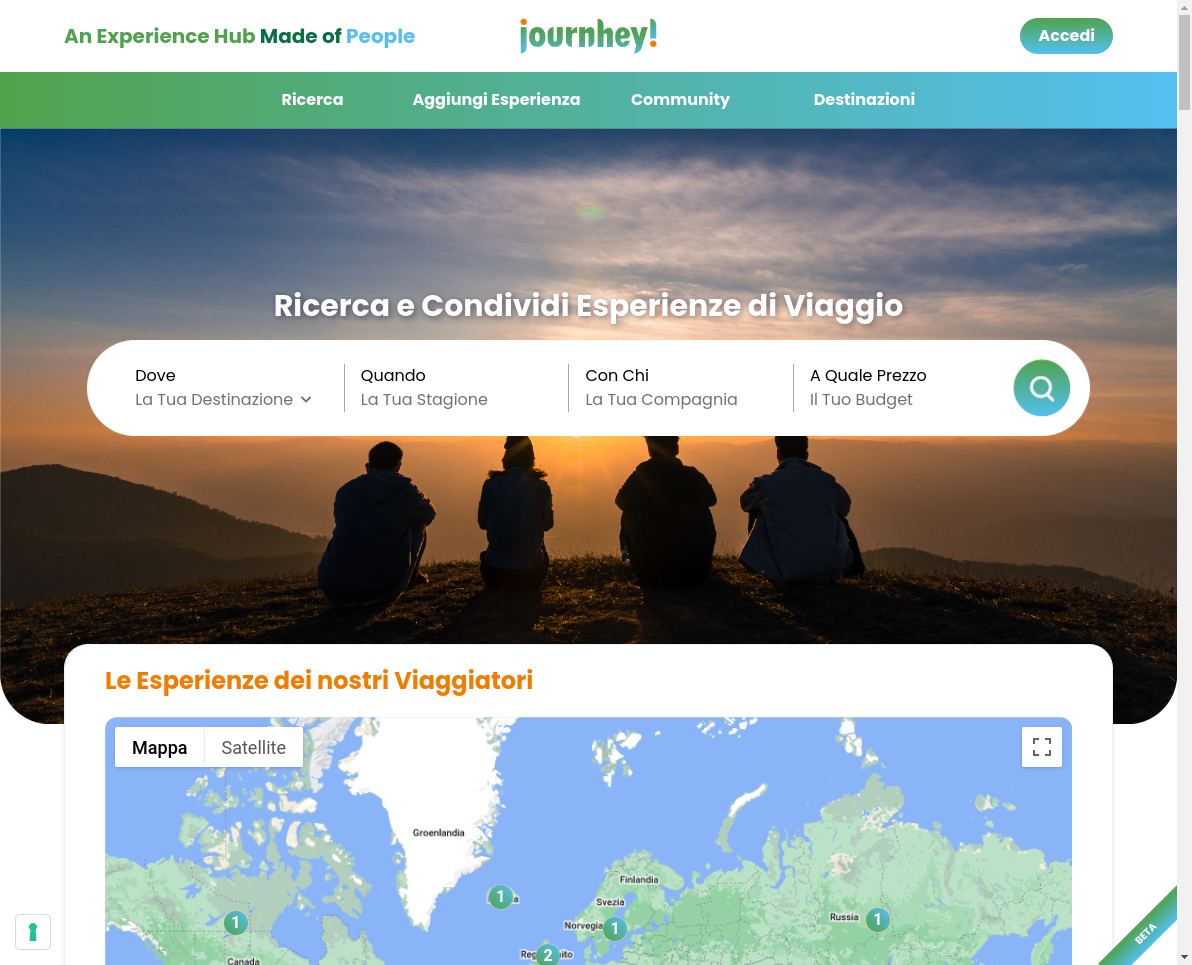
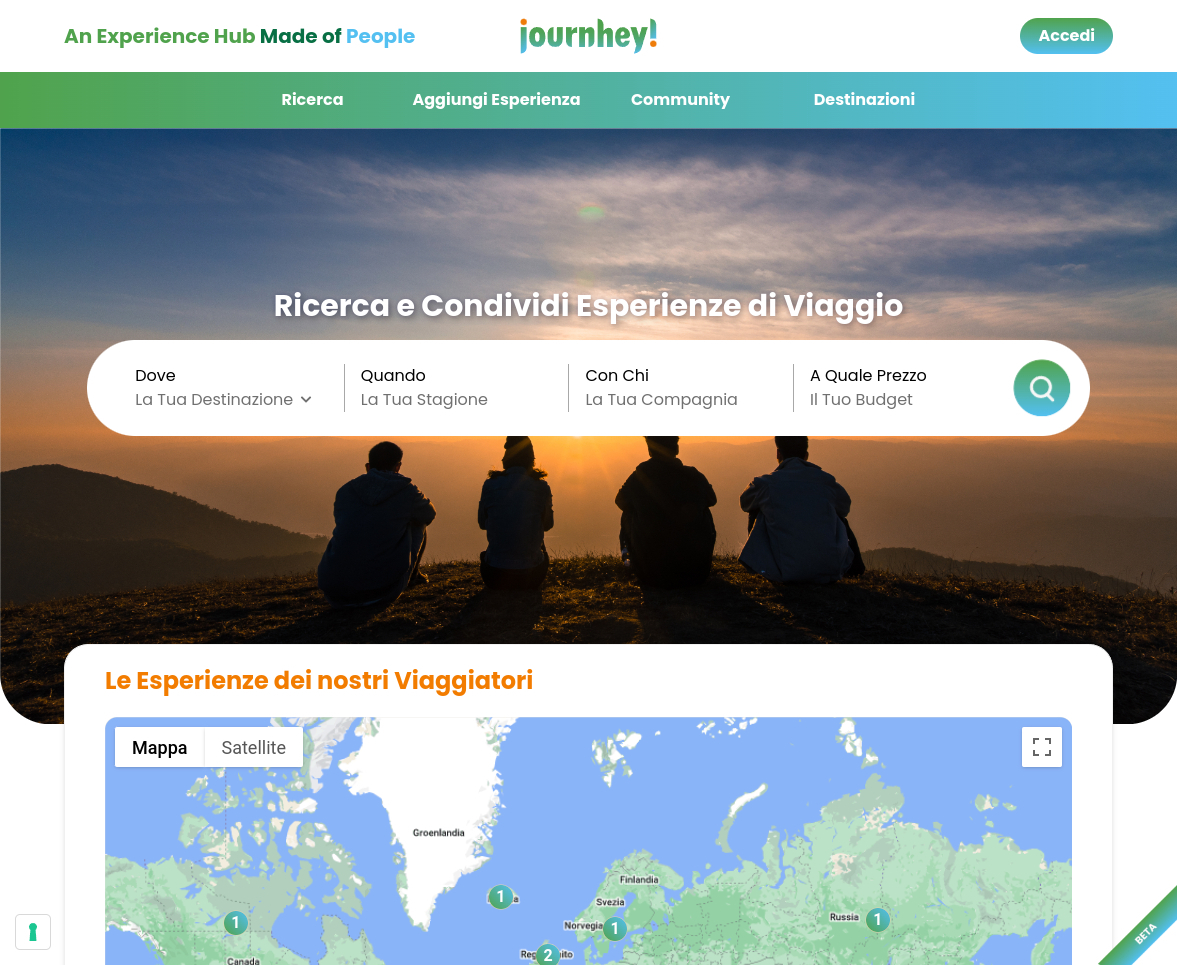
new projects

diff --git a/src/lib/en.ts b/src/lib/en.ts
@@ -186,14 +186,14 @@ export default {
 
 	immagine: 'image',
 	"Torna all'homepage": 'Go to the homepage',
-	'Non autorizzato': 'Unauthorized',
+	'Non autorizzato': 'Unauthorised',
 	'Accesso negato': 'Forbidden',
 	'Pagina non trovata': 'Not Found',
 	'Pagina scaduta': 'Page Expired',
 	'Troppe richieste': 'Too Many Requests',
 	'Errore Server': 'Server Error',
 	'Servizio non disponibile': 'Service Unavailable',
-	'Non sei autorizzato a visualizzare questa pagina.': 'You are not authorized to see this page.',
+	'Non sei autorizzato a visualizzare questa pagina.': 'You are not authorised to see this page.',
 	"L'accesso a questa pagina è stato negato.": 'Access to this page is forbidden.',
 	"La pagina non è stata trovata, l'URL potrebbe essere errato o relativo ad un contenuto non più disponibile.":
 		"The page you requested couldn't be found, the specified URL might be expired or referring to a resource no longer available.",
